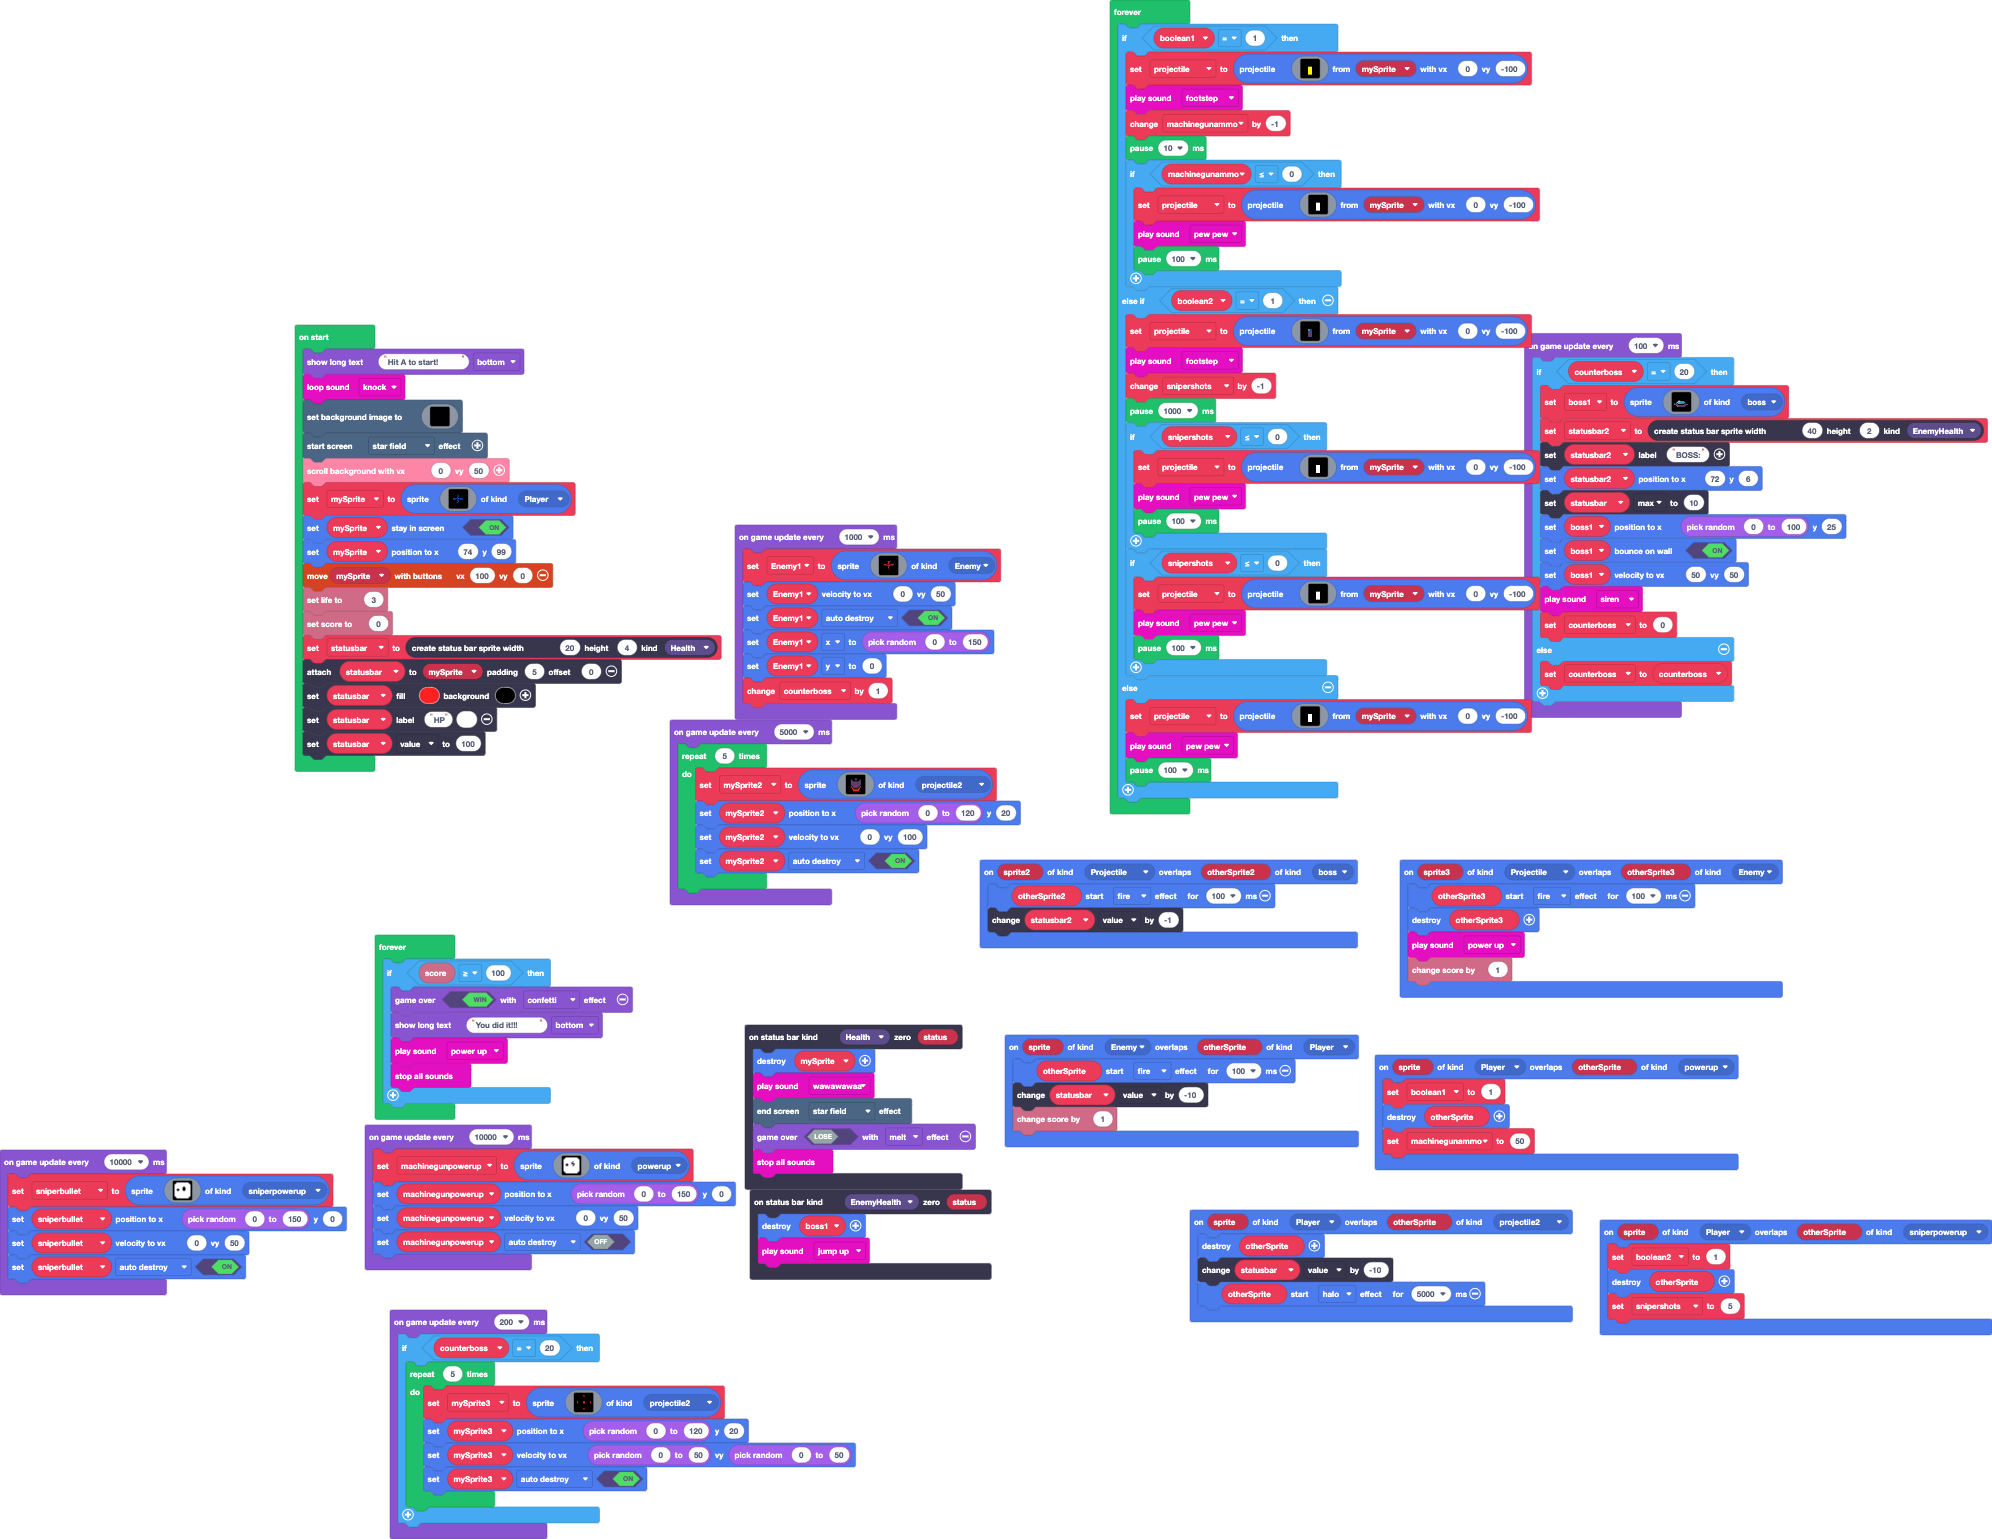
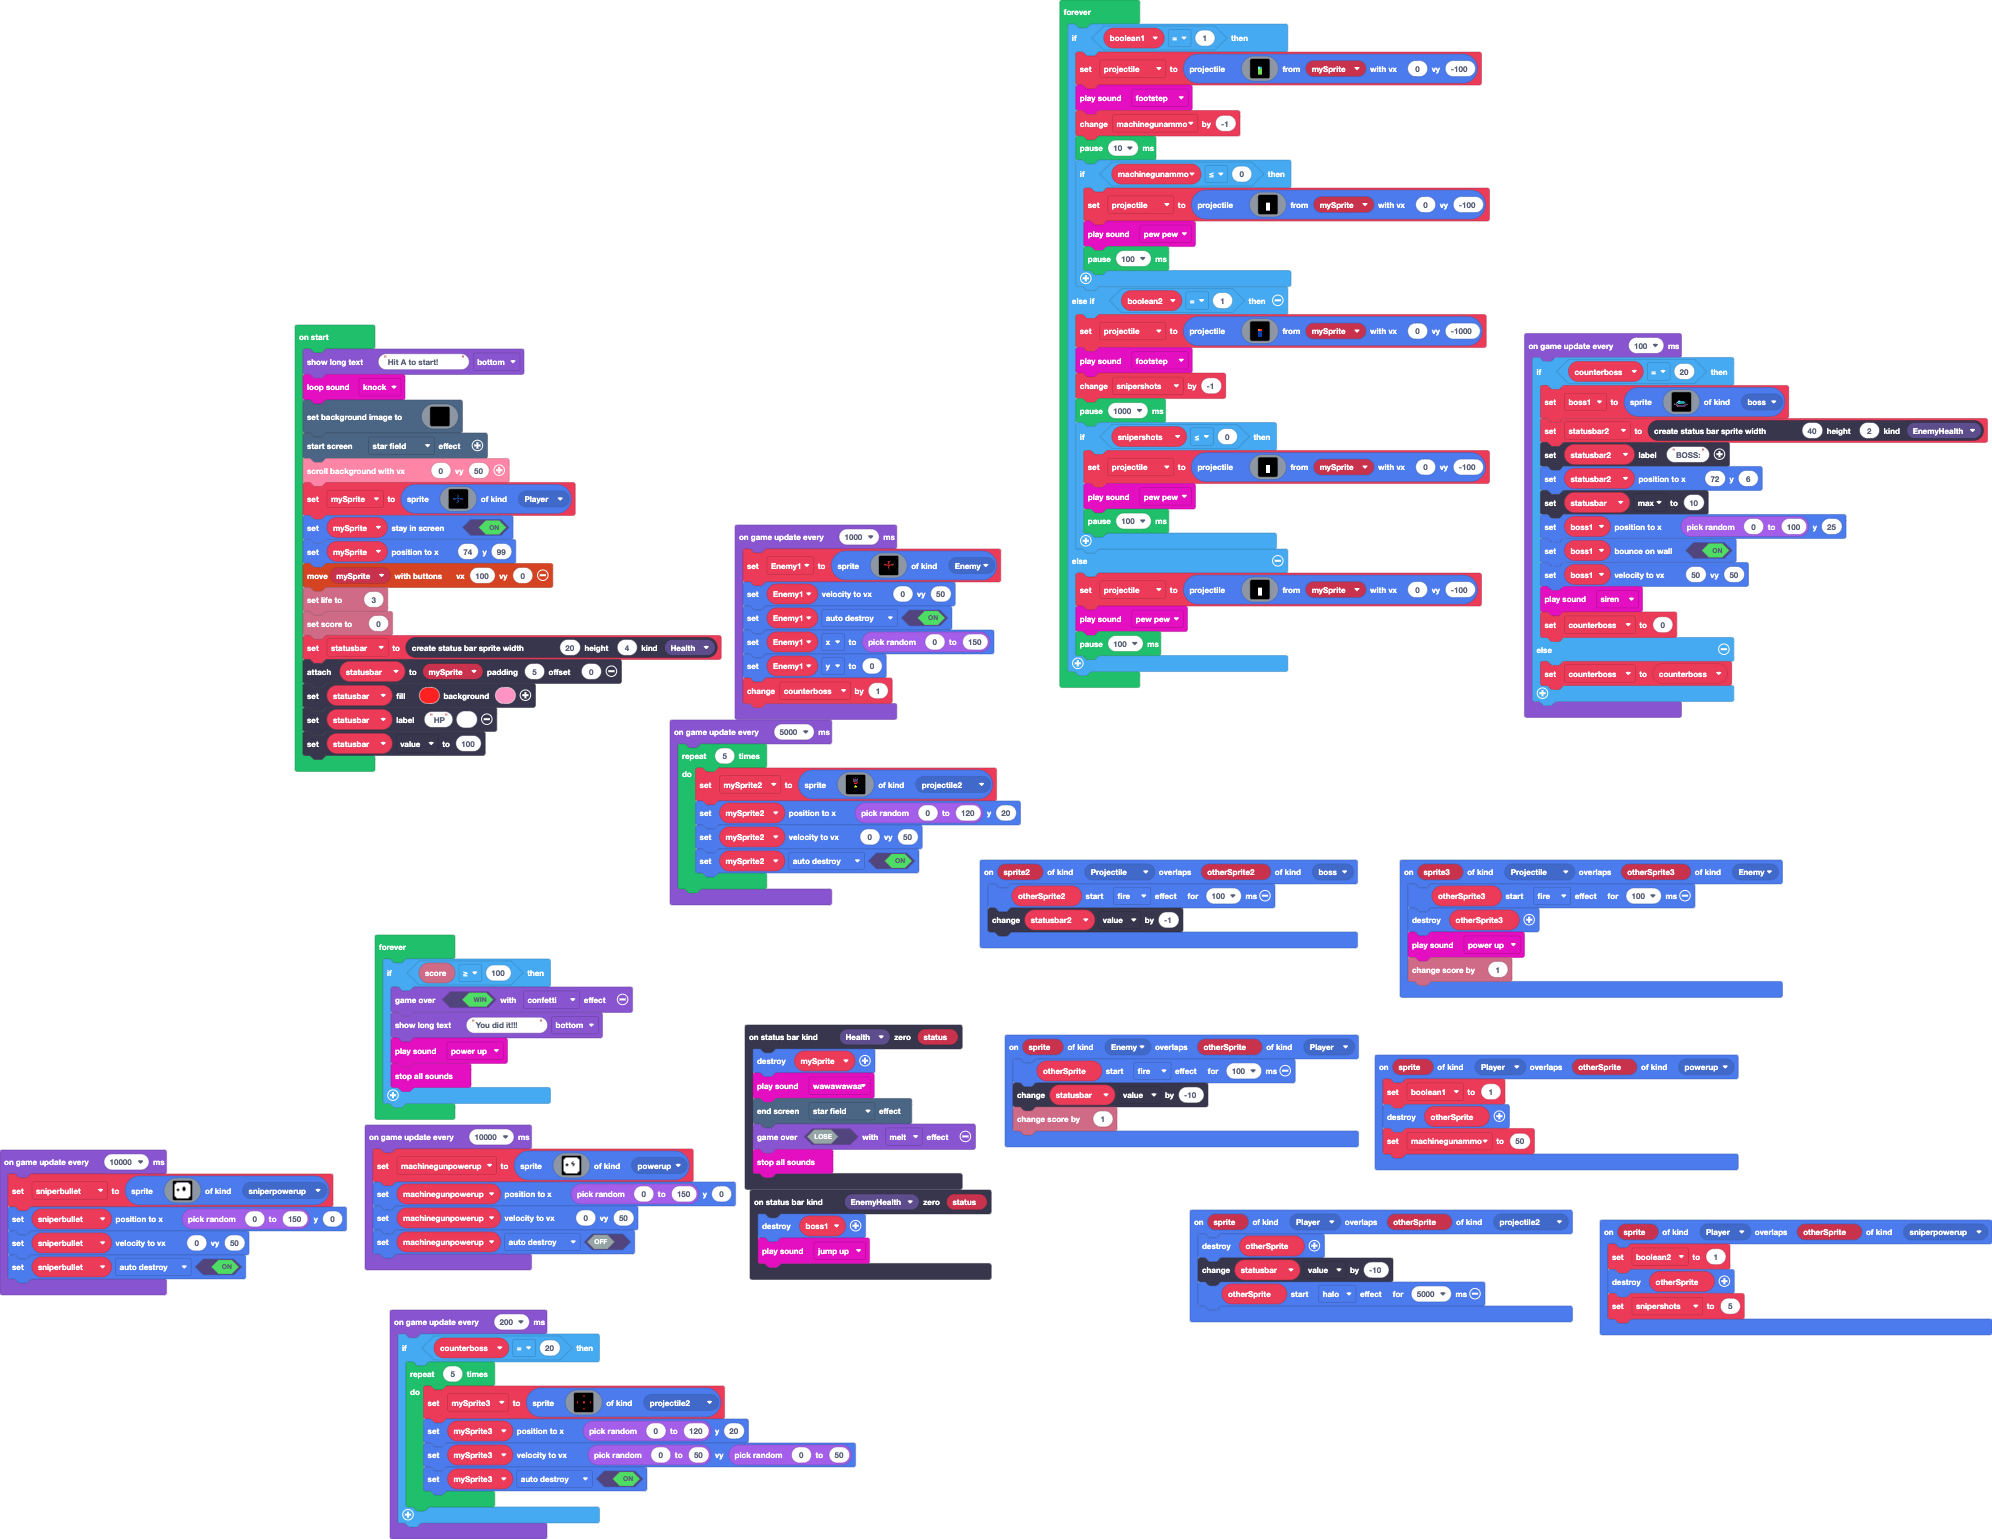
balanced nuke

Changed region(s): [[0.5291, 0.0, 0.7781, 0.5302]]

diff --git a/main.ts b/main.ts
@@ -215,31 +215,47 @@ info.setLife(3)
 info.setScore(0)
 statusbar = statusbars.create(20, 4, StatusBarKind.Health)
 statusbar.attachToSprite(mySprite, 5, 0)
-statusbar.setColor(2, 15)
+statusbar.setColor(2, 3)
 statusbar.setLabel("HP", 1)
 statusbar.value = 100
 game.onUpdateInterval(5000, function () {
     for (let index = 0; index < 5; index++) {
         mySprite2 = sprites.create(img`
-            . . . . . . . . . . . . . . . . 
-            . f f f . . f f f f . . f f f . 
-            . f f f f . f c c f . f f f f . 
-            . . f c f f f c c f f f c f . . 
-            . . f c c f f f f f f c c f . . 
-            . . f c c c c c c c c c c f . . 
-            . . f c c c c c c c c c c f . . 
-            . . f c c c c c c c c c c f . . 
-            . . f c c c c c c c c c c f . . 
-            . . f f c c c c c c c c f f . . 
-            . . f 4 f c c c c c c f 4 f . . 
-            . . . f 2 f c c c c f 2 f . . . 
-            . . . f 2 2 f f f f 2 2 f . . . 
-            . . . . f 2 2 2 2 2 2 f . . . . 
-            . . . . f 2 2 2 2 2 2 f . . . . 
-            . . . . . f f f f f f . . . . . 
+            ................
+            .fff..ffff..fff.
+            .ffff.fccf.ffff.
+            ..fcfffccfffcf..
+            ..fccffffffccf..
+            ..fccccccccccf..
+            ..fccccccccccf..
+            ..fccccccccccf..
+            ..fccccccccccf..
+            ..ffccccccccff..
+            ..f4fccccccf4f..
+            ...f2fccccf2f...
+            ...f22ffff22f...
+            ....f222222f....
+            ....f222222f....
+            .....ffffff.....
+            ................
+            .......ff.......
+            ......f55f......
+            .....f5555f.....
+            ....f555555f....
+            ....f555555f....
+            .....ffffff.....
+            ................
+            ................
+            ................
+            ................
+            ................
+            ................
+            ................
+            ................
+            ................
             `, SpriteKind.projectile2)
         mySprite2.setPosition(randint(0, 120), 20)
-        mySprite2.setVelocity(0, 100)
+        mySprite2.setVelocity(0, 50)
         mySprite2.setFlag(SpriteFlag.AutoDestroy, true)
     }
 })
@@ -274,10 +290,10 @@ forever(function () {
             . . . . . . . . 
             . . . . . . . . 
             . . . . . . . . 
-            . . . 5 5 . . . 
-            . . . 5 5 . . . 
-            . . . 5 5 . . . 
-            . . . 5 5 . . . 
+            . . . 9 6 . . . 
+            . . . 7 7 . . . 
+            . . . 7 7 . . . 
+            . . . 7 7 . . . 
             . . . . . . . . 
             `, mySprite, 0, -100)
         music.footstep.play()
@@ -302,29 +318,15 @@ forever(function () {
             . . . . . . . . 
             . . . . . . . . 
             . . . . . . . . 
-            . . . 6 8 . . . 
-            . . . c c . . . 
-            . . . c c . . . 
-            . . . c c . . . 
+            . . . 4 2 . . . 
+            . . . 8 8 . . . 
+            . . . 8 8 . . . 
+            . . . 8 8 . . . 
             . . . . . . . . 
-            `, mySprite, 0, -100)
+            `, mySprite, 0, -1000)
         music.footstep.play()
         snipershots += -1
         pause(1000)
-        if (snipershots <= 0) {
-            projectile = sprites.createProjectileFromSprite(img`
-                . . . . . . . . 
-                . . . . . . . . 
-                . . . . . . . . 
-                . . . 1 1 . . . 
-                . . . 1 1 . . . 
-                . . . 1 1 . . . 
-                . . . 1 1 . . . 
-                . . . . . . . . 
-                `, mySprite, 0, -100)
-            music.pewPew.play()
-            pause(100)
-        }
         if (snipershots <= 0) {
             projectile = sprites.createProjectileFromSprite(img`
                 . . . . . . . . 
